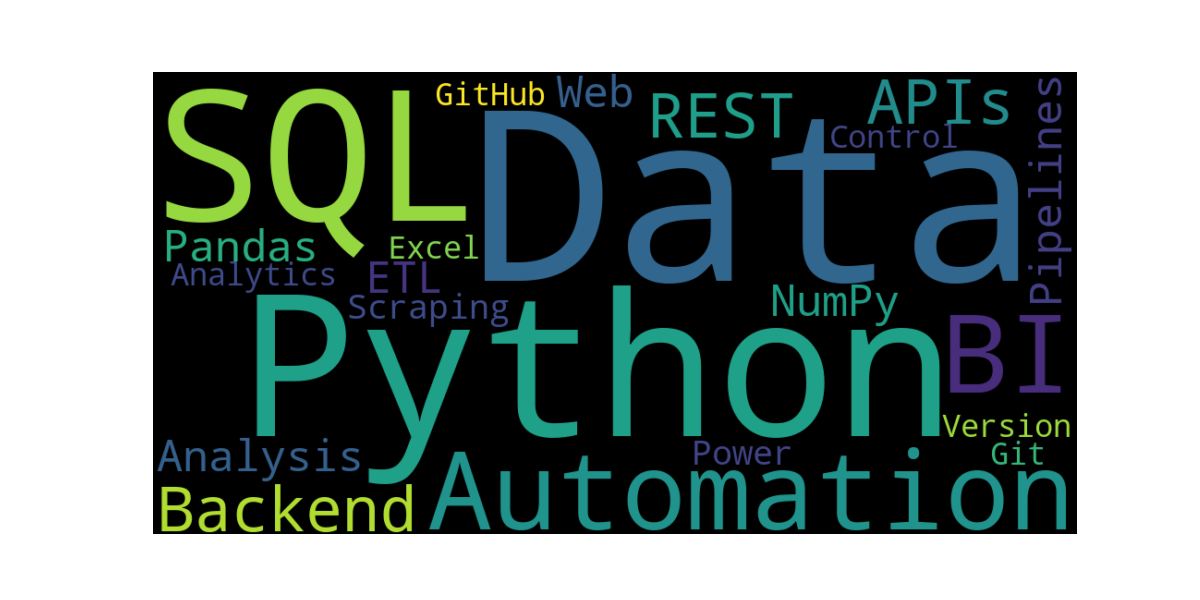
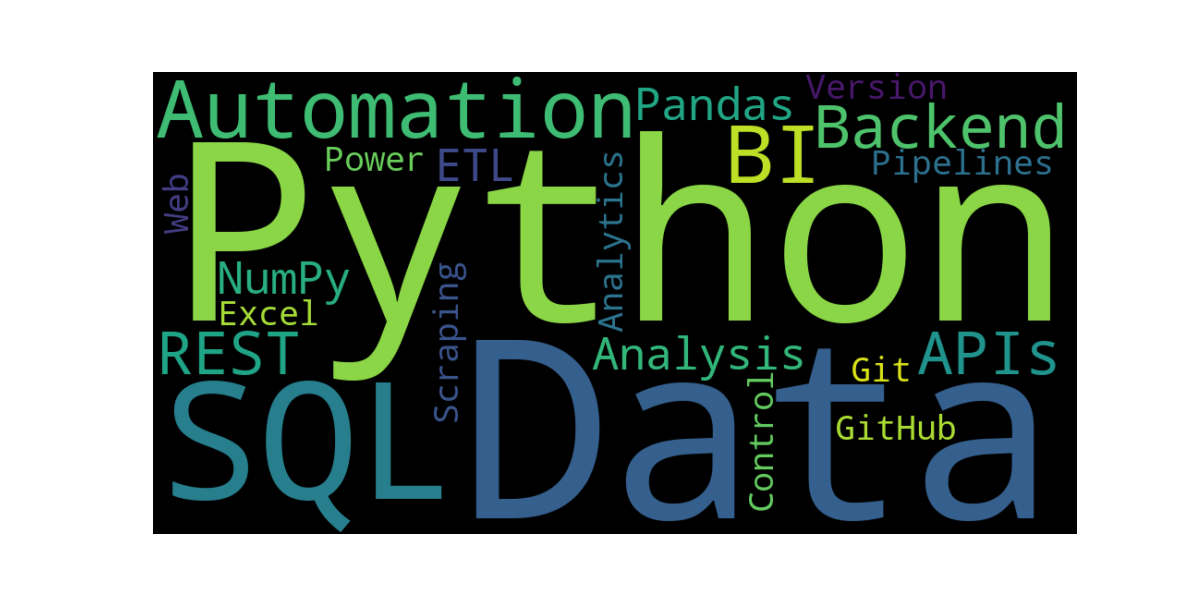
Update wordcloud image and improve generator script

Changed region(s): [[0.1233, 0.12, 0.8942, 0.9]]

diff --git a/rafael.python.nuvem.palavras/gerar_wordcloud.py b/rafael.python.nuvem.palavras/gerar_wordcloud.py
@@ -1,24 +1,25 @@
 from wordcloud import WordCloud
 import matplotlib.pyplot as plt
 
-texto = """
-Python Python SQL SQL
-Backend APIs REST
-Data Analysis Pandas NumPy
-ETL Data Pipelines
-Web Scraping Automation
-Power BI BI Analytics
-Excel Data Automation
-Git GitHub Version Control
-"""
 
+# Abre o arquivo de texto e lê todo o conteúdo
+# encoding="utf-8" evita problemas com acentos
+with open("tecnologias.txt", encoding="utf-8") as arquivo:
+    texto = arquivo.read()
+
+
+# Cria a nuvem de palavras com configurações visuais
 wc = WordCloud(
     width=1000, height=500, background_color="black", colormap="viridis"
 ).generate(texto)
 
+
+# Exibe a nuvem de palavras
 plt.figure(figsize=(12, 6))
 plt.imshow(wc, interpolation="bilinear")
 plt.axis("off")
 plt.show()
 
+
+# Salva a imagem gerada em arquivo PNG
 wc.to_file("wordcloud.png")
